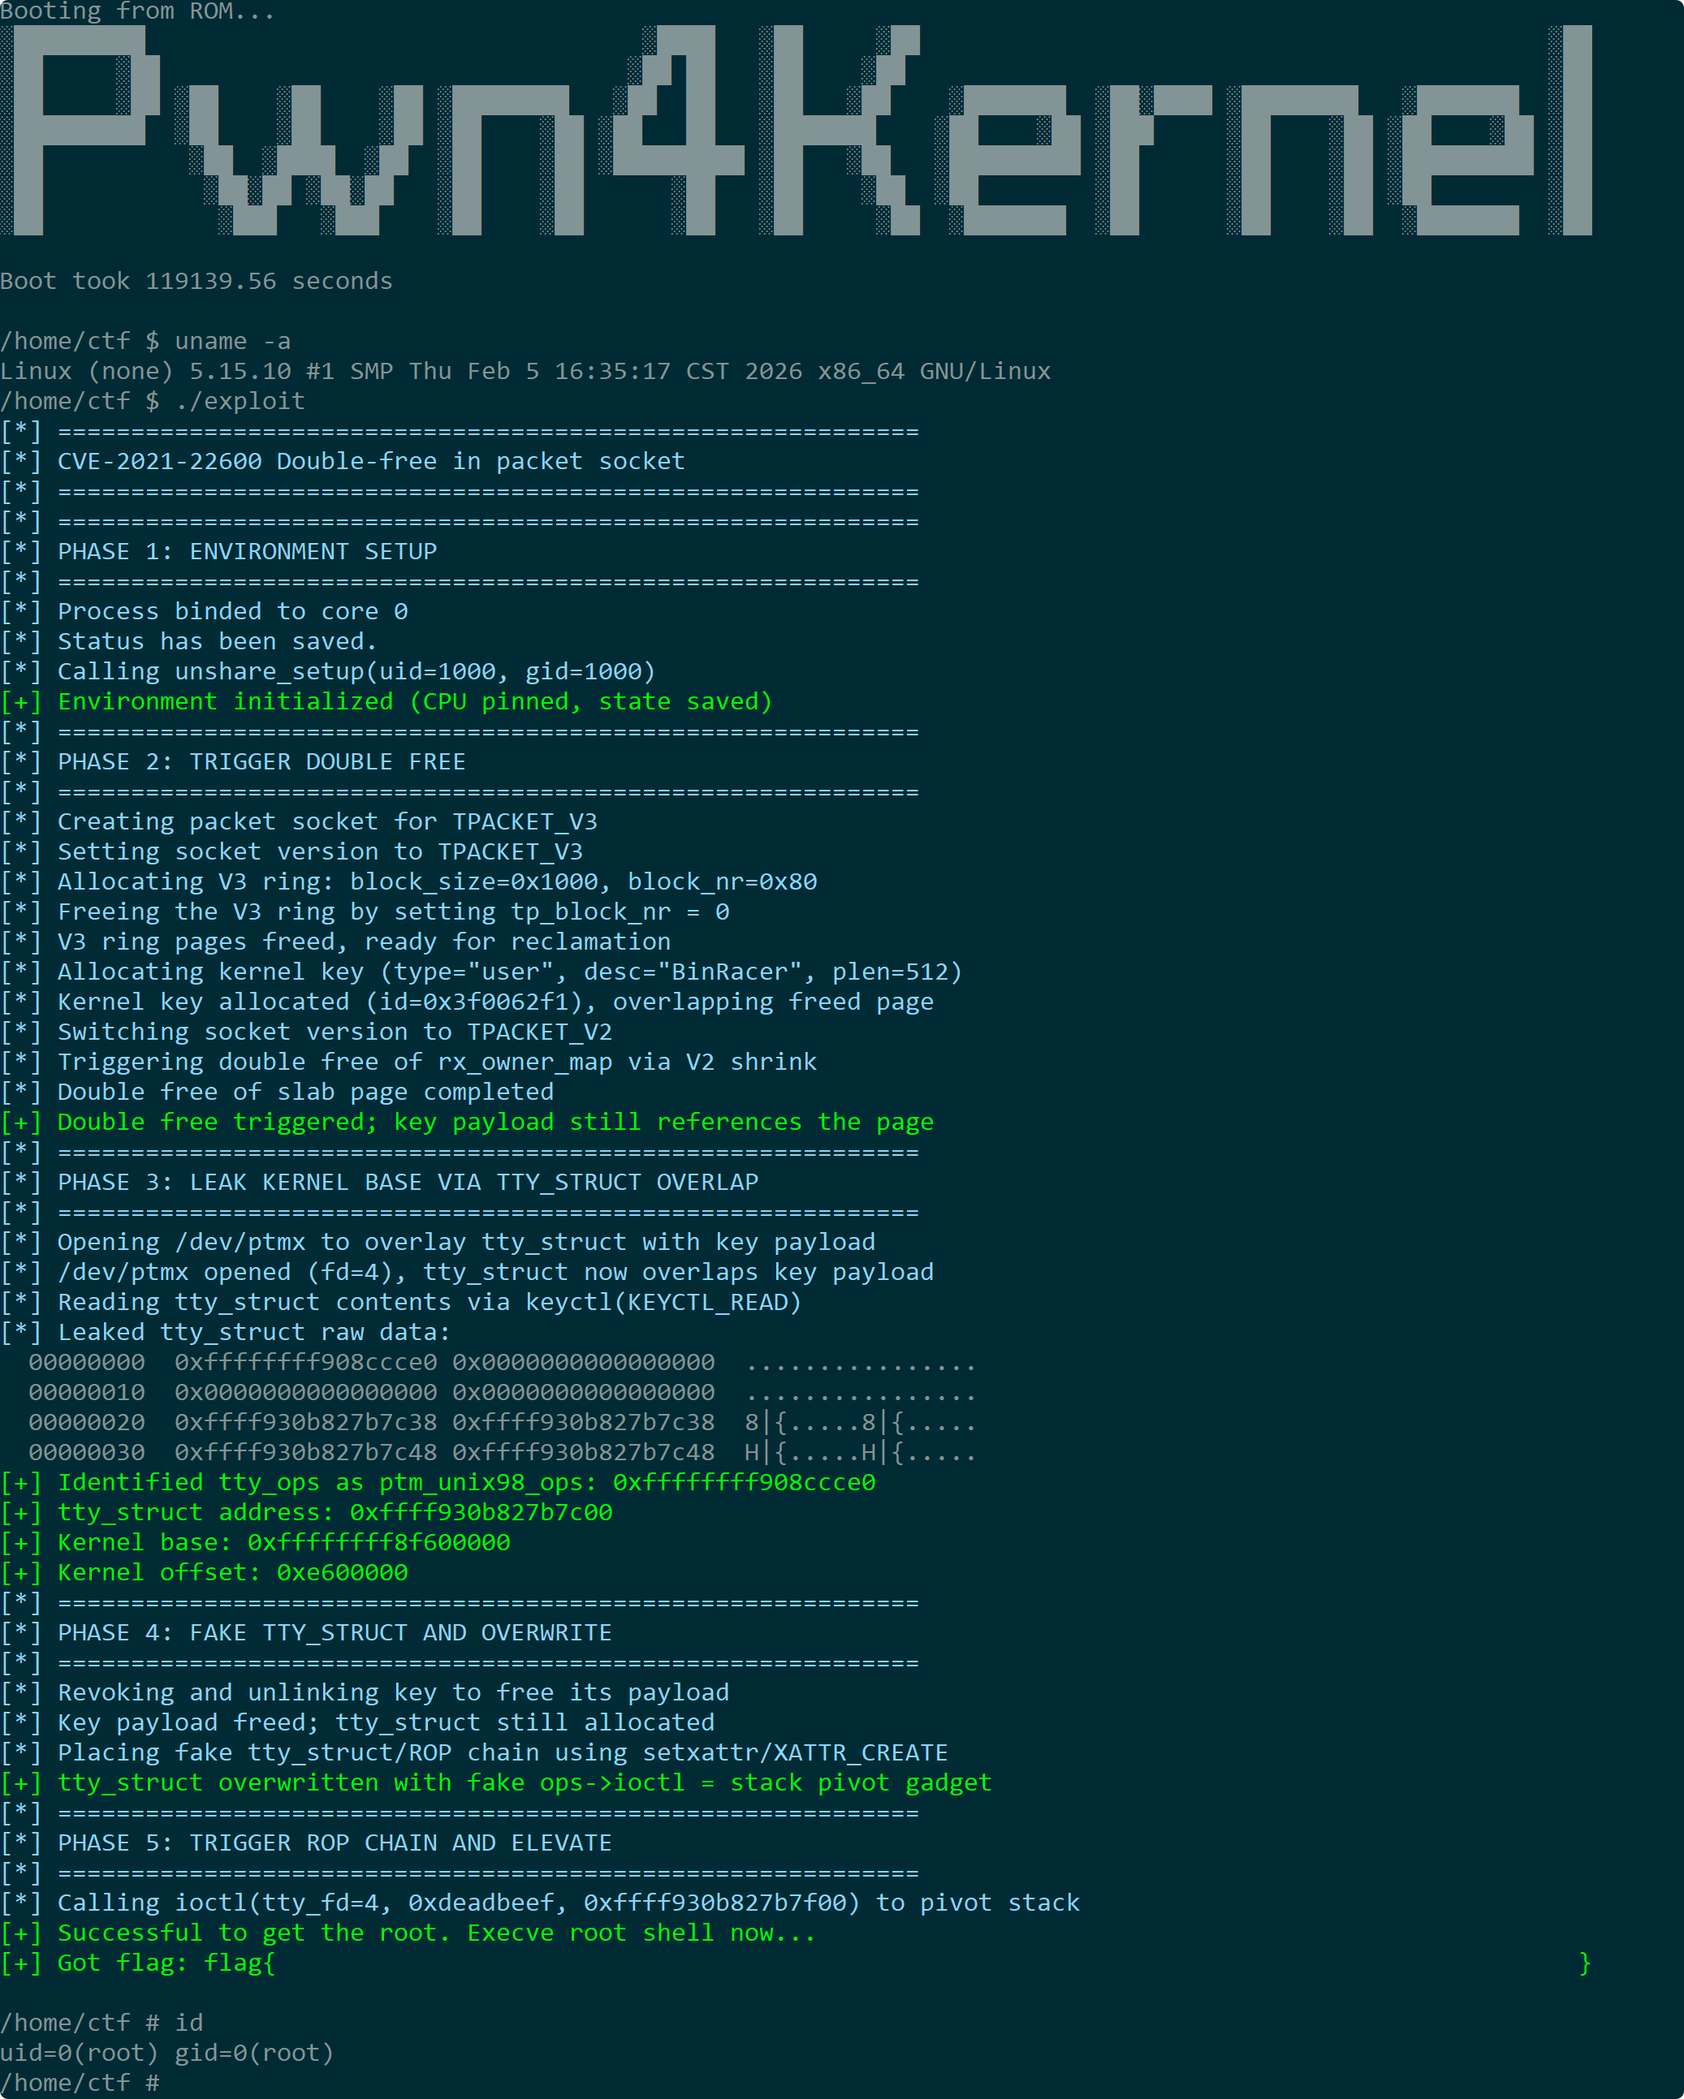
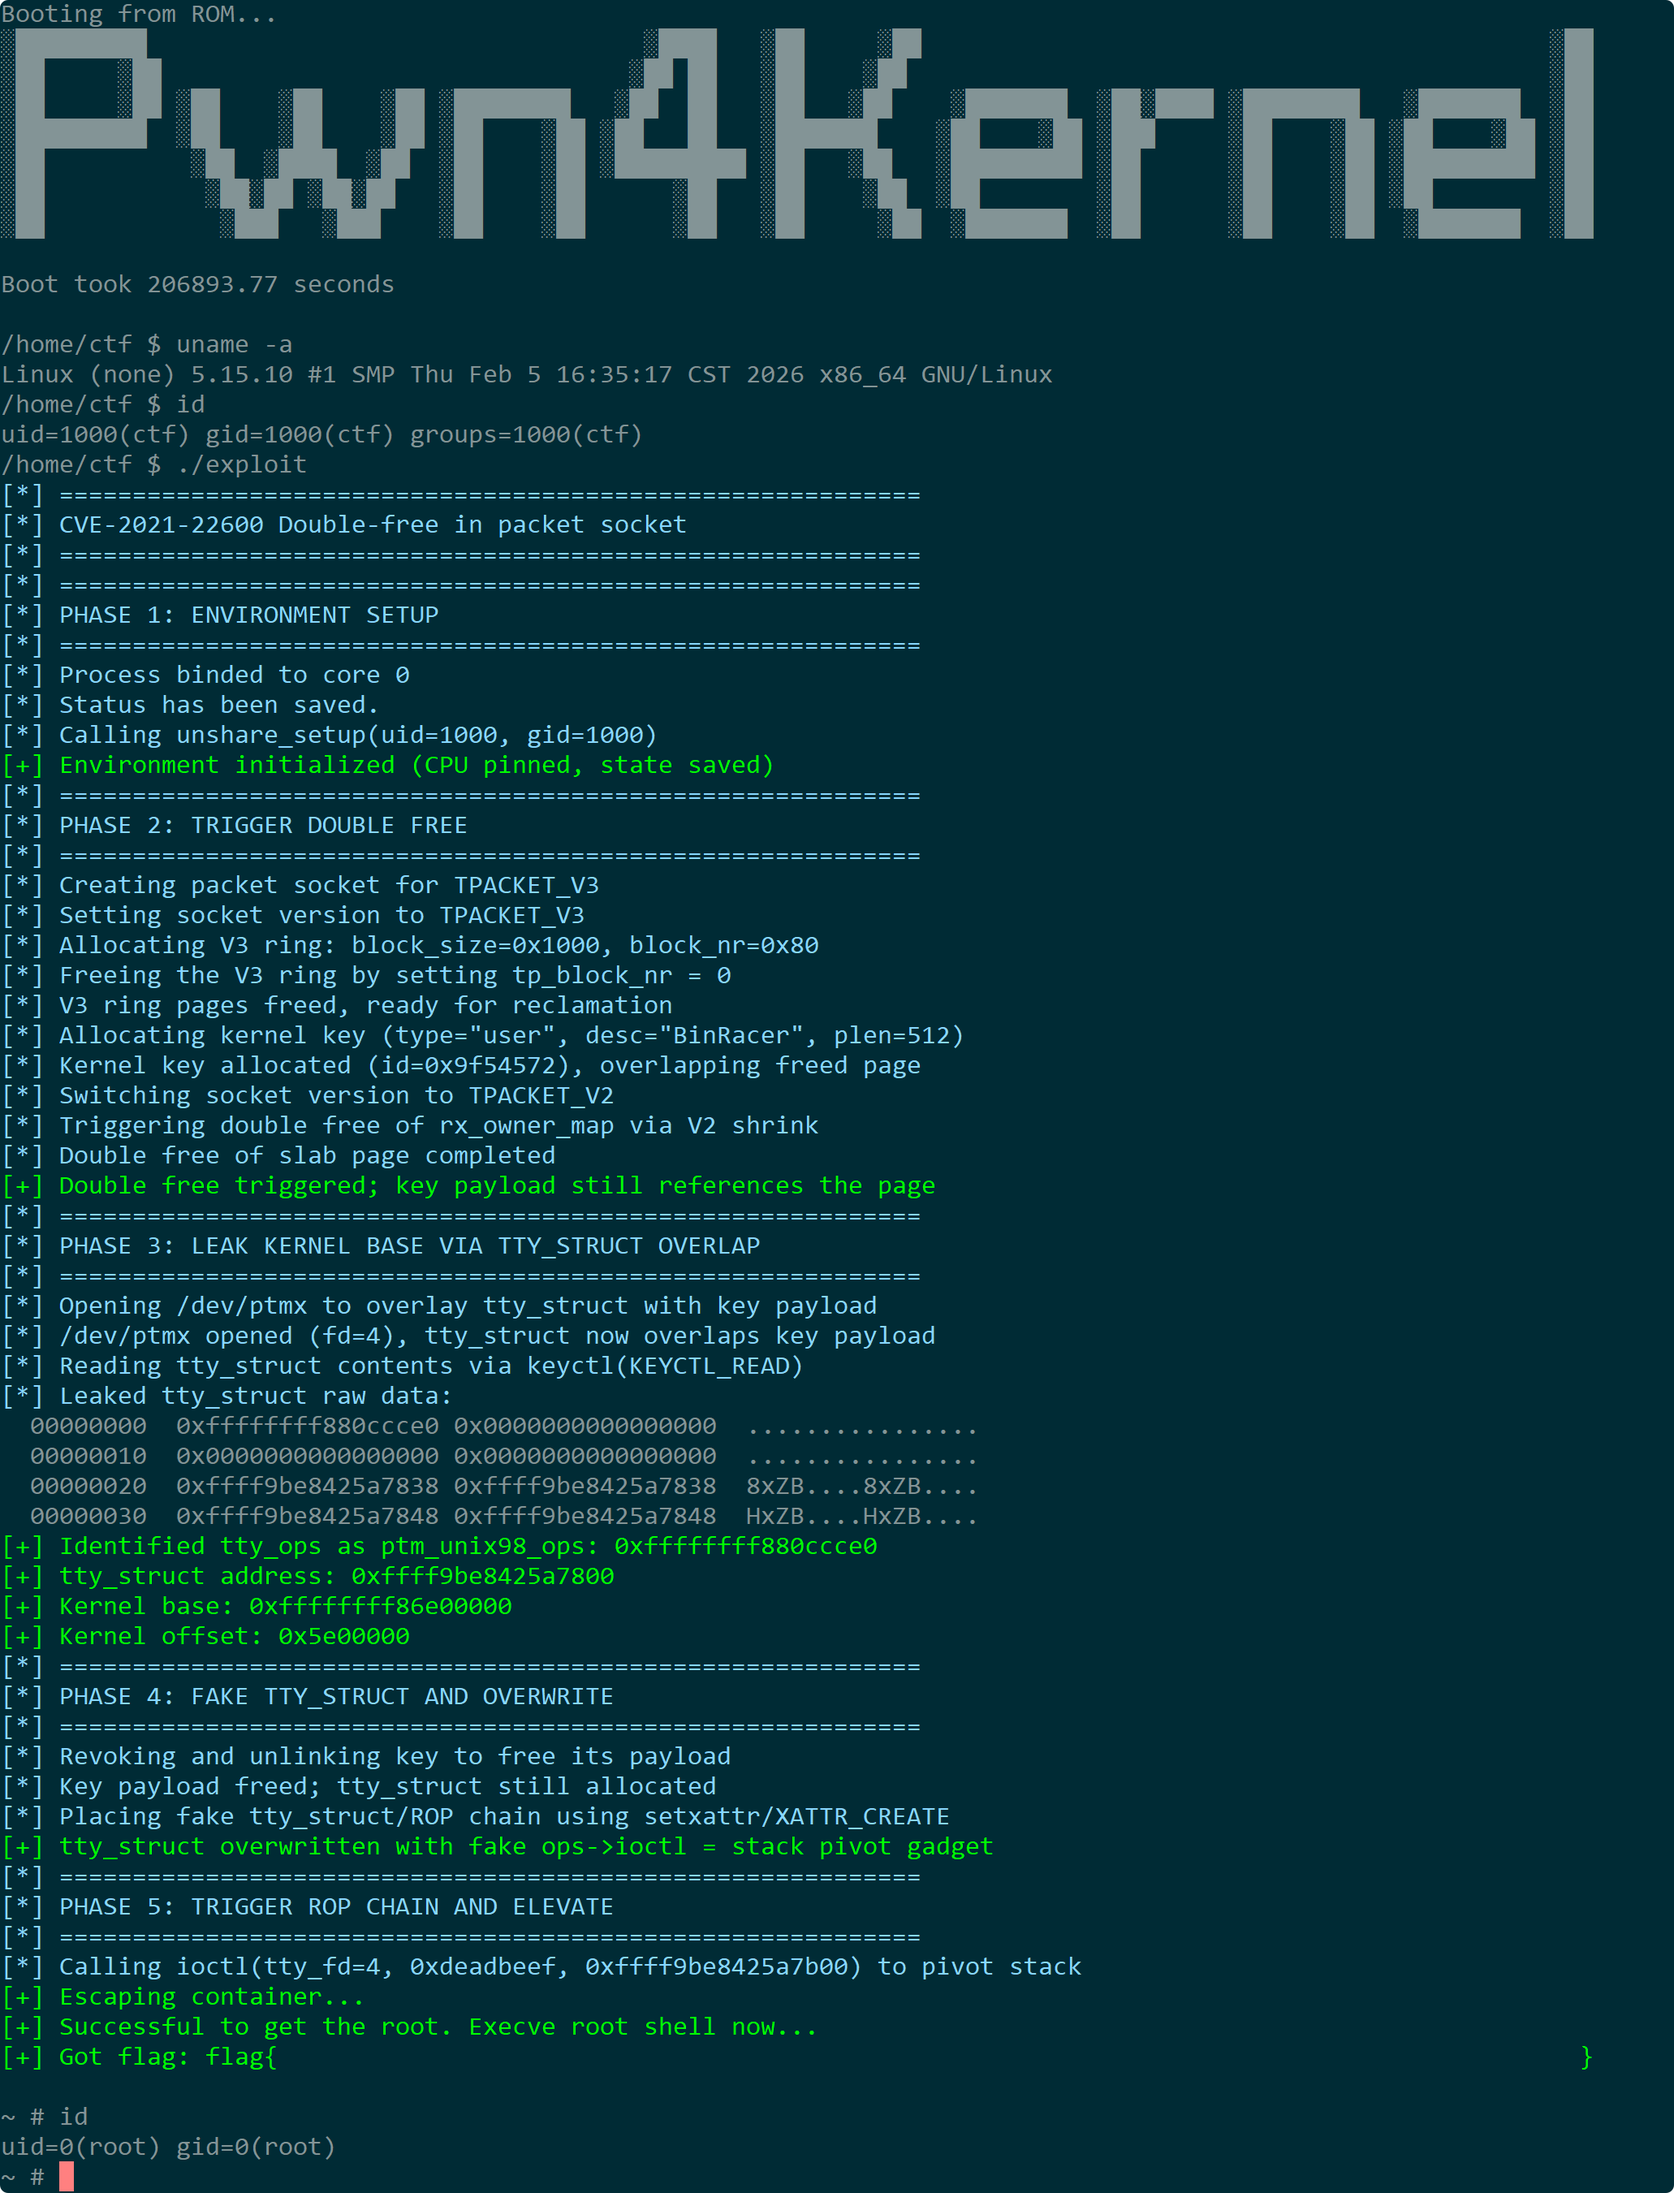
update 【Kernel Exploit】CVE-2021-22600 漏洞分析

Changed region(s): [[0.0, 0.0, 0.9622, 1.0], [0.6208, 0.8971, 0.6518, 0.9281]]

diff --git a/_posts/2026-05-24-KernelExploit-CVE-2021-22600.md b/_posts/2026-05-24-KernelExploit-CVE-2021-22600.md
@@ -833,8 +833,8 @@ sequenceDiagram
 
 - 对 `tty_fd` 调用 `ioctl`，传入请求码和第三个参数（指向 ROP 链起始地址）。内核在 TTY 驱动中调用 `tty_struct->ops->ioctl`，该指针现为栈迁移 gadget 的地址。
 - 执行栈迁移 gadget 后，栈指针被切换到 ROP 链起始位置，随后执行预设的 ROP 指令序列。该序列依次完成：
-    1. 命名空间逃逸，将当前进程切换至初始命名空间。
-    2. 凭证替换，将进程有效用户标识提升至 0。
+    1. 凭证替换，将进程有效用户标识提升至 0。
+    2. 命名空间逃逸，将当前进程切换至初始命名空间。
     3. 安全返回用户态，跳转到预置的 shell 执行函数。
 - 完成 ROP 后，进程获得 root 权限，并启动交互式 shell。
 
@@ -848,7 +848,7 @@ sequenceDiagram
     Exploit->>TtyDriver: ioctl(tty_fd, 0xdeadbeef, stack_addr)
     TtyDriver->>Kernel: fake_ops->ioctl (栈迁移 gadget)
     Kernel->>Kernel: 切换 RSP 到 ROP 链
-    Kernel->>Kernel: 执行命名空间逃逸 + 凭证提升
+    Kernel->>Kernel: 凭证提升 + 执行命名空间逃逸
     Kernel->>Kernel: 返回用户态
     Kernel-->>Exploit: 返回至 shell 执行函数
 ```
@@ -1137,7 +1137,7 @@ sequenceDiagram
 在 `setxattr` 挂起期间，主线程对 `tty_fd` 调用 `ioctl`，传入请求码和 ROP 链起始地址。此时 `tty_struct` 的 `ops` 指针已被覆盖，指向同一页面内的伪造操作函数表，而伪造表的 `ioctl` 函数指针已替换为栈迁移 gadget。执行 `ioctl` 后，控制流发生以下转移：
 
 - 内核在 TTY 驱动中调用 `tty_struct->ops->ioctl`，该指针现为栈迁移 gadget 的地址。执行该 gadget 后，栈指针被切换到伪造数据页面中的 ROP 链起始位置。
-- 随后执行预设的 ROP 指令序列，依次完成命名空间逃逸（将当前进程切换至初始命名空间）、凭证替换（将进程有效用户标识提升至 0），以及安全返回用户态（跳转到预置的 shell 执行函数）。
+- 随后执行预设的 ROP 指令序列，依次完成凭证替换（将进程有效用户标识提升至 0）、命名空间逃逸（将当前进程切换至初始命名空间），以及安全返回用户态（跳转到预置的 shell 执行函数）。
 - 完成 ROP 后，进程获得 root 权限，并启动交互式 shell。
 
 由于 `setxattr` 尚未完成，内核不会在此时释放临时缓冲区，因此不会触发 `CONFIG_INIT_ON_FREE_DEFAULT_ON` 带来的清零操作，伪造数据得以保留。待 `ioctl` 执行完毕并返回用户态后，进程已处于提权状态，`setxattr` 后续可能因进程状态变化而失败或返回错误，但这已不影响提权结果。
@@ -1153,7 +1153,7 @@ sequenceDiagram
     Exploit->>TtyDriver: ioctl(tty_fd, 0xdeadbeef, stack_addr)
     TtyDriver->>Kernel: fake_ops->ioctl (栈迁移 gadget)
     Kernel->>Kernel: 切换 RSP 到 ROP 链
-    Kernel->>Kernel: 执行命名空间逃逸 + 凭证提升
+    Kernel->>Kernel: 凭证提升 + 执行命名空间逃逸
     Kernel->>Kernel: 返回用户态
     Kernel-->>Exploit: 返回至 shell 执行函数
     Note over Setxattr: setxattr 后续可能返回错误，但提权已完成
